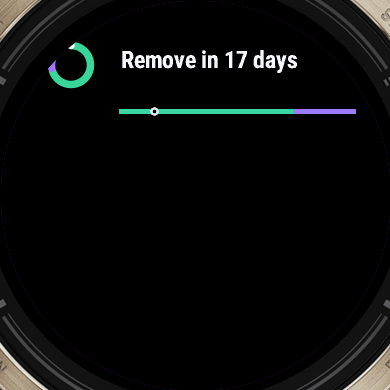
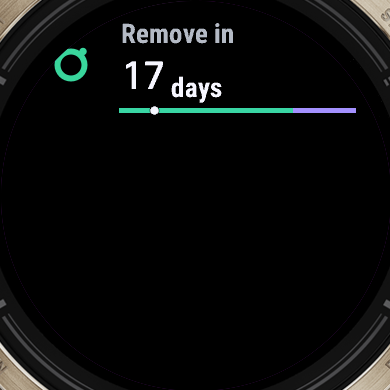
Document glance and notification verification

Changed region(s): [[0.3077, 0.0615, 0.9231, 0.3077], [0.1231, 0.0923, 0.2462, 0.2462]]

diff --git a/docs/IMPLEMENTATION.md b/docs/IMPLEMENTATION.md
@@ -395,6 +395,41 @@ dates, Reminder 2 Off/On/submenus/picker, day-before, overdue repeat, clock,
 About, migration notice, and all seven native notification kinds. Obsolete Schedule, planned-override, and
 v1.0-jargon screenshots were removed.
 
+### UX round: glance/notifications
+
+The glance now uses a state-coloured single-ring glyph beside separate
+`FONT_GLANCE` title and `FONT_GLANCE_NUMBER` value rows. Percentage-based
+margins keep the group aligned on 390, 416, and 454 px displays. Every state
+has a rounded two-segment progress bar and outlined marker; the ring-out state
+dims the bar and uses a hollow marker, while overdue uses orange copy, a marker
+pinned at the right edge, and an overflow tail. The platform-owned launcher
+glyph is necessarily static and cannot receive per-state colour, so it uses a
+closed green ring-and-dot form while the title, value, bar, and marker carry
+the live state.
+
+Notification titles use the Remove, Insert, Replace, and Put back vocabulary,
+omit numbers, and stay within 15 characters except for the explicitly required
+Reminder 2 phrases `Still in — remove` and `Still out — insert`. Bodies contain
+the fact plus an optional secondary instruction. Overdue includes the due date,
+the four-week warning reports red days-over instead of a countdown, and all
+backup copy is hedged as `Backup advised`. The notification resource is a
+closed, single-colour ring with a dot.
+
+The pre-round constrained-personality peaks were 17.5 KiB for glance and
+16,184 bytes for background. The post-round peaks are 20.2 KiB and 18,080
+bytes (17.7 KiB), respectively; both remain below 45 KiB. The background-event
+matrix was rerun for day-before, Reminder 1, Reminder 2, overdue, temporary
+out, ring-free over seven days, and ring-in over four weeks. Each delivery path
+recorded exactly one notification, one ledger update, and one
+`Background.exit()`. No-op, nil storage, and corrupt storage delivered and
+saved nothing while exiting once. The injected notification exception was
+caught, saved nothing, and exited once. The automated suite reports 133 tests.
+
+The visual run regenerated and checked
+`epix2pro{42,47,51}mm-glance-{ring-in,ring-free,overdue,temporary-out}.png` and
+the seven 47 mm files
+`epix2pro47mm-notification-{day-before,reminder1,reminder2,overdue,temp-over3h,ring-free-over7d,ring-in-over28d}.png`.
+
 ## Memory verification
 
 Measurements use the 47 mm debug personality so they include the QA overhead.
@@ -404,8 +439,8 @@ background use reduced active mirrors.
 | Personality | Peak/live use | Available heap | Result |
 | --- | ---: | ---: | --- |
 | Foreground | 138.7 KiB | 763.6 KiB | within foreground budget |
-| Glance | 17.5 KiB | 59.8 KiB | below 45 KiB |
-| Background | 16,184 bytes (15.8 KiB) | 61,256 bytes (59.8 KiB) | below 45 KiB |
+| Glance | 20.2 KiB | 59.8 KiB | below 45 KiB |
+| Background | 18,080 bytes (17.7 KiB) | 61,256 bytes (59.8 KiB) | below 45 KiB |
 
 The foreground reading is the maximum transient 25-row History view. Glance
 was launched with **Settings → Glance Launch Mode → Launch in Glance Mode**.
